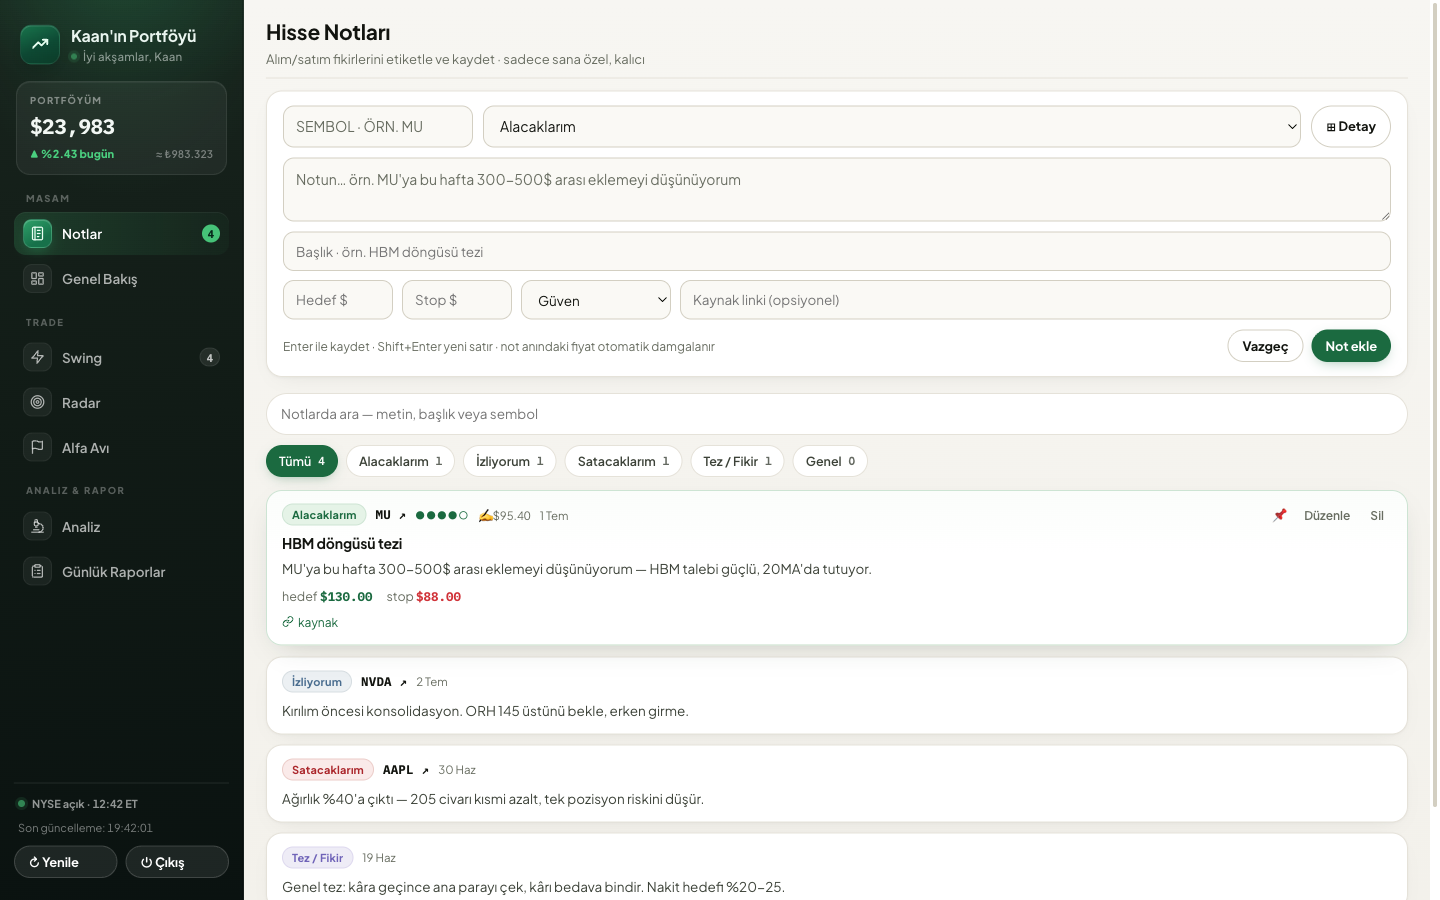
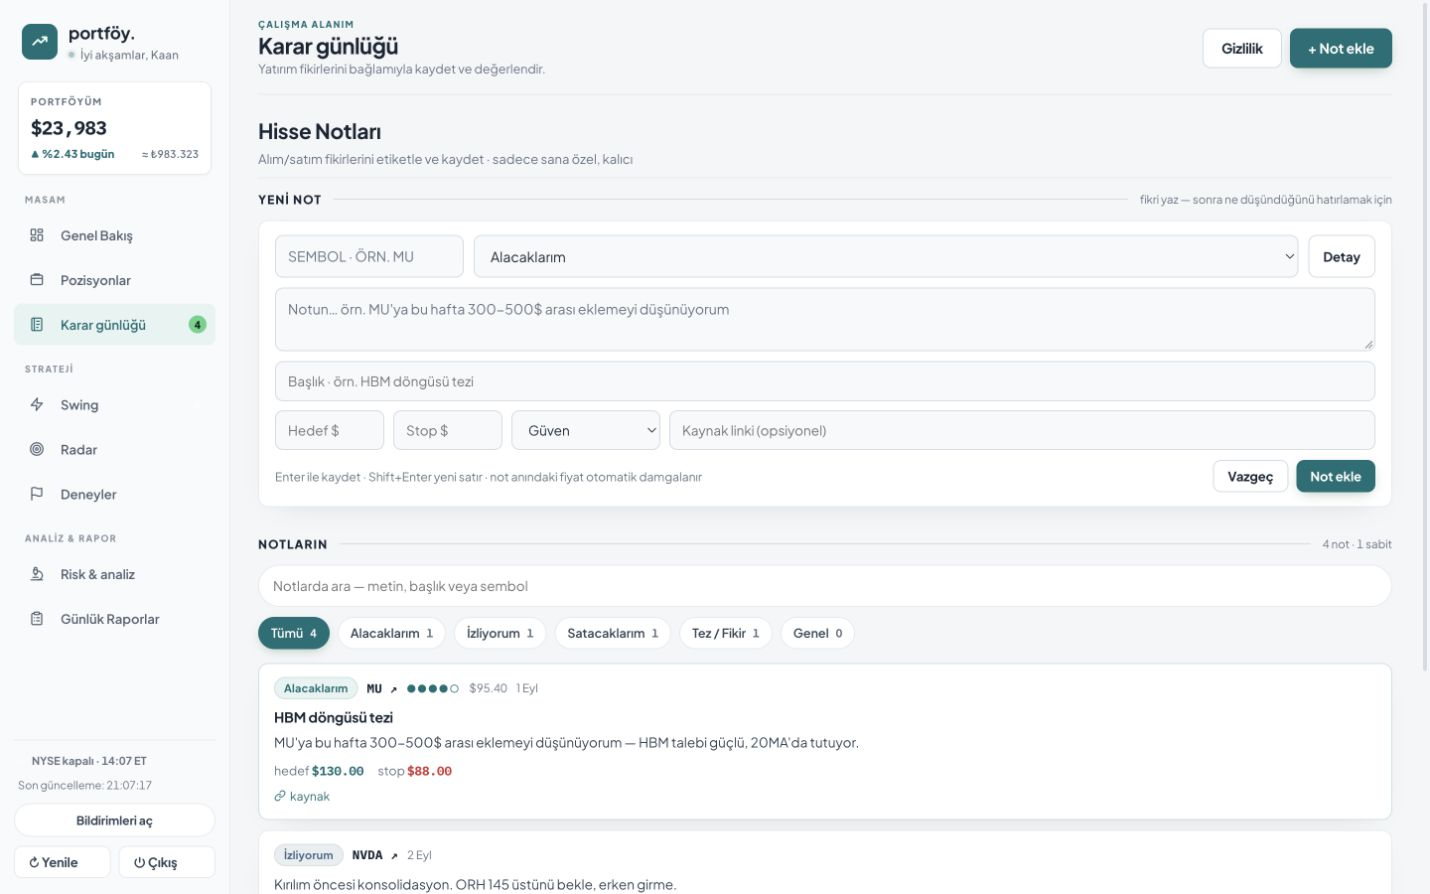
docs: refresh public README screenshots

Changed region(s): [[0.0, 0.0, 1.0, 1.0], [0.9231, 0.2718, 0.9538, 0.302], [0.9231, 0.1208, 0.9538, 0.151]]

diff --git a/README.md b/README.md
@@ -2,7 +2,7 @@
 
 **Self-hosted stock portfolio & swing-trading discipline dashboard** — built end-to-end as a solo project: product, design, backend, data pipelines and AI integration.
 
-Vanilla JavaScript SPA · Express · PostgreSQL · Claude API · MCP
+Vanilla JavaScript SPA · Three.js · Express · PostgreSQL · Claude API · MCP
 
 ![Node](https://img.shields.io/badge/Node-%E2%89%A520-339933?logo=node.js&logoColor=white)
 ![Express](https://img.shields.io/badge/Express-4-000000?logo=express&logoColor=white)
@@ -11,7 +11,14 @@ Vanilla JavaScript SPA · Express · PostgreSQL · Claude API · MCP
 ![MCP](https://img.shields.io/badge/MCP-server-6C47FF)
 ![License](https://img.shields.io/badge/license-MIT-green)
 
-![Overview](docs/screenshots/overview.png)
+![Portfolio Tracker desktop overview with allocation, priorities and portfolio summary](docs/screenshots/overview.png)
+
+<details>
+  <summary>Mobile overview</summary>
+  <img src="docs/screenshots/overview-mobile.png" alt="Mobile overview with portfolio summary, today's priorities and bottom navigation" width="390">
+</details>
+
+*Screenshots use the local mock server and sample data.*
 
 > **Why it exists** — I wanted one place that enforces my own trading discipline instead of just charting prices: *Rule #1: don't lose money.* Positions without a stop plan get flagged, new entries are blocked when the market regime is off, profits trigger "pull your initial capital, let the profit ride for free" suggestions. The app is my daily driver; the UI is Turkish because it was built for me first.
 
@@ -20,7 +27,7 @@ Vanilla JavaScript SPA · Express · PostgreSQL · Claude API · MCP
 ## Features
 
 **Portfolio core**
-- Live portfolio (US stocks, funds, gold, options) with day/week/month/YTD returns, allocation donut, benchmark compare and a privacy mode that masks every number
+- Live portfolio (US stocks, funds, gold, options) with day/week/month/YTD returns, allocation donut with an optional 3D desktop view, benchmark compare and a privacy mode that masks every number
 - Price alerts, transaction ledger with realized P/L, TL/USD dual accounting, tax view
 - **Notes** — a labeled journal (*to buy / watching / to sell / thesis*) so every trade idea leaves a paper trail
 
@@ -43,11 +50,11 @@ Vanilla JavaScript SPA · Express · PostgreSQL · Claude API · MCP
 
 | Radar | Thesis Desk (Claude) |
 |---|---|
-| ![Radar](docs/screenshots/radar.png) | ![Thesis](docs/screenshots/analiz-ai.png) |
+| ![Radar setup cards and scan results](docs/screenshots/radar.png) | ![Claude thesis desk with bull and bear cases](docs/screenshots/analiz-ai.png) |
 
 | Swing journal | Notes |
 |---|---|
-| ![Swing](docs/screenshots/swing.png) | ![Notes](docs/screenshots/notes.png) |
+| ![Swing journal and measured monthly contribution](docs/screenshots/swing.png) | ![Decision journal and notes](docs/screenshots/notes.png) |
 
 ---
 
@@ -74,7 +81,7 @@ What the diagram leaves out, for node-budget reasons:
 - **Dev/prod parity** — `scripts/mock-swing-server.js` serves the real SPA against realistic fake data and stubbed AI endpoints
 
 **Engineering choices I'd defend in a review**
-- **No frontend framework, no build step.** One hand-rolled SPA talking to one Express file. For a single-user tool, the absence of tooling *is* the feature: instant deploys, zero dependency churn, 3 runtime deps total (`express`, `pg`, `@anthropic-ai/sdk`).
+- **No frontend framework, no build step.** One vanilla-JS SPA talking to Express. The 2D allocation view works by default; Three.js loads on demand for the optional 3D desktop view.
 - **Deterministic first, LLM second.** The rule engine produces the evidence; Claude interprets it. AI output is schema-constrained, cached, persisted and feature-flagged — if the key is missing the panels hide themselves and nothing else breaks.
 - **Provider-agnostic data layer.** Every external call goes through a TTL cache sized to free-tier quotas; the app stays fully usable when a provider throttles (stale-but-shown beats blank).
 - **Honest measurement.** The paper-trading ledger is append-only, the day audit stores its inputs alongside the verdict, and realized P/L can be overridden with broker ground truth — the app is designed to prevent me from lying to myself.
